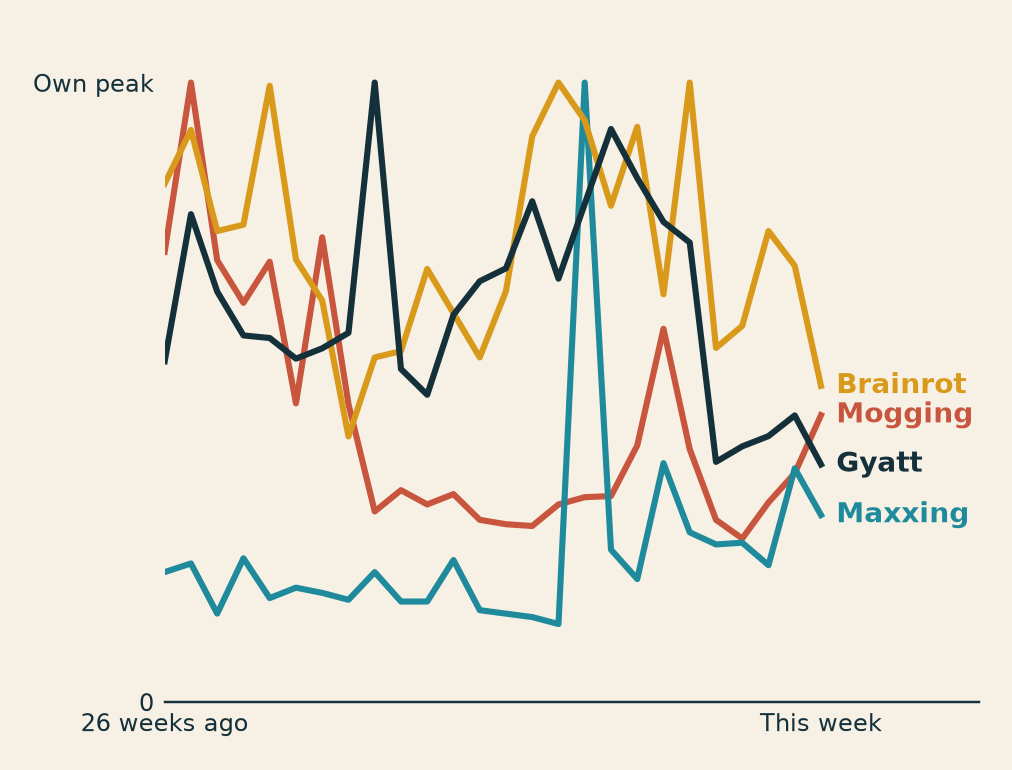
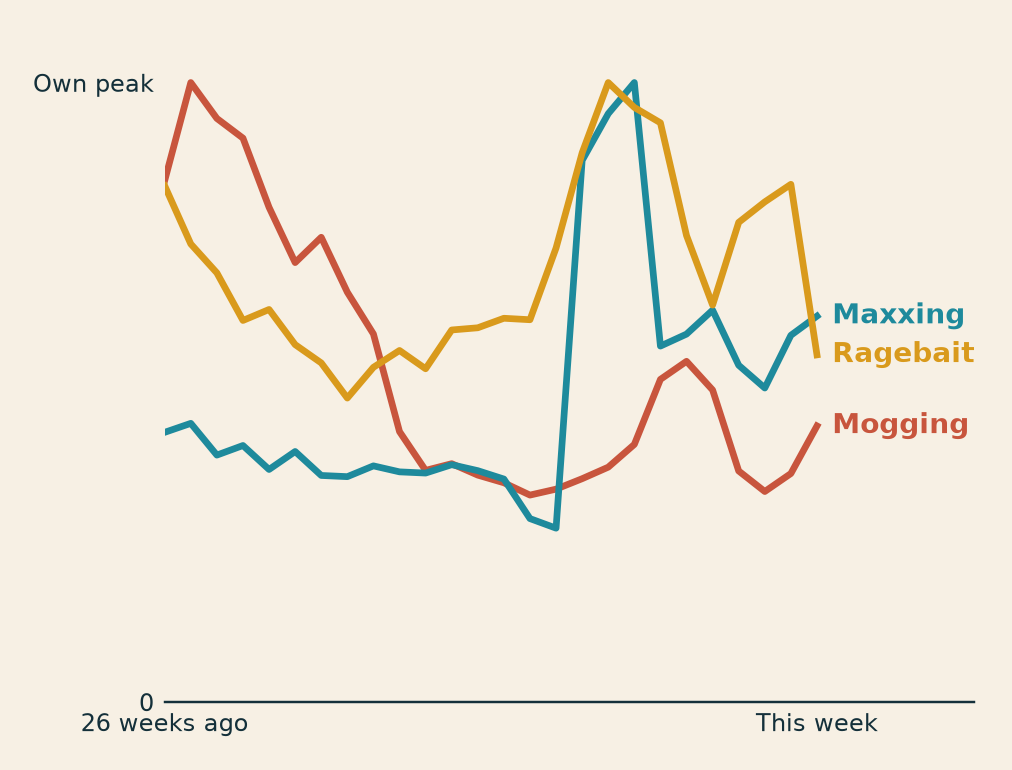
Clean up the words chart and tighten the deck

Changed region(s): [[0.1532, 0.0935, 0.9802, 0.8104], [0.7352, 0.9039, 0.8883, 0.9662], [0.1532, 0.5299, 0.2451, 0.5922]]

diff --git a/tools/words.py b/tools/words.py
@@ -3,9 +3,9 @@
 Measures how often each word is looked up on English Wiktionary (Wikimedia pageviews, free, no key).
 ponytail: lookups stand in for use. Nothing free counts words in TikTok comments, so read it as curiosity about a word.
 Entries with no "titles" are phrases with no page: their status is set by hand in words.json.
-Usage: python tools/words.py
+Usage: python tools/words.py [chart]   (chart: only redraw img/words.png)
 """
-import datetime, json, pathlib, time, urllib.error, urllib.parse, urllib.request
+import datetime, json, pathlib, sys, time, urllib.error, urllib.parse, urllib.request
 
 ROOT = pathlib.Path(__file__).resolve().parent.parent
 WEEKS = 26
@@ -45,11 +45,13 @@ def chart(rows, path):
     ink, plaster, colours = "#14303A", "#F7F0E4", ("#C8553D", "#1E8A9C", "#D99A1C", "#14303A")
     fig, ax = plt.subplots(figsize=(4.6, 3.5), dpi=220, facecolor=plaster)
     ax.set_facecolor(plaster)
-    top = [r for r in rows if r.get("weekly")][:4]
+    measured = [r for r in rows if r.get("weekly")]
+    top = [r for r in measured if r["status"] == "Rising"][:3] + [min(measured, key=lambda r: r["change"])]  # what's climbing, and the steepest fall
     for r, c in zip(top, colours):
-        base = max(r["weekly"])
-        y = [v / base * 100 for v in r["weekly"]]
-        ax.plot(y, color=c, linewidth=2)
+        v = r["weekly"]
+        v = [sum(v[max(0, i - 2):i + 1]) / len(v[max(0, i - 2):i + 1]) for i in range(len(v))]  # three-week average: single weeks are noisy
+        y = [x / max(v) * 100 for x in v]
+        ax.plot(y, color=c, linewidth=2.2)
         ax.annotate(r["word"], (len(y) - 1, y[-1]), xytext=(5, 0), textcoords="offset points", color=c, fontsize=9, fontweight="bold", va="center")
     ax.set_xlim(0, WEEKS + 5)
     ax.set_ylim(0, 108)
@@ -60,6 +62,13 @@ def chart(rows, path):
     ax.spines["bottom"].set_color(ink)
     fig.tight_layout()
     fig.savefig(path, facecolor=plaster)
+
+
+def redraw():
+    """Redraw the chart from saved data, without calling Wikimedia again."""
+    today = datetime.date.today()
+    monday = today - datetime.timedelta(days=today.weekday())
+    chart(json.loads((ROOT / f"data/words/{monday}.json").read_text("utf-8"))["words"], ROOT / "img/words.png")
 
 
 def main():
@@ -97,4 +106,4 @@ def demo():
 
 if __name__ == "__main__":
     demo()
-    main()
+    redraw() if sys.argv[1:] == ["chart"] else main()

diff --git a/tools/deck.py b/tools/deck.py
@@ -11,7 +11,7 @@ SITE = "https://joetherockhey.github.io/this-week-in-the-villa"
 TEMPLATE = "1rvdR3fjF2m_mhh2mmFXs_AuJB1XRXVV-R7u6RrdSg8I"  # 'This Week in the Villa (template)' in Joe's Drive; tools/deck_template.py drew it
 PILL = {"Rising": ("0E4A5A", "F7F0E4"), "Peaking": ("C8553D", "F7F0E4"), "Steady": ("E8DCC6", "14303A"), "Past peak": ("D3C6AE", "6B7A80")}
 TERRA, POOL, MUTE, INK = "C8553D", "0E4A5A", "6B7A80", "14303A"
-LIMITS = {"theme": 70, "glance_title": 75, "glance_note": 230, "story_title": 70, "story_bullets": 360, "lang_title": 62, "peak_title": 62,
+LIMITS = {"theme": 70, "glance_title": 75, "glance_note": 230, "story_title": 70, "story_bullets": 360, "lang_title": 50, "peak_title": 62,
           "case_title": 75, "brand_title": 75, "brand_num": 6, "brand_label": 90, "brand_use": 165, "brand_risk": 165,
           "src": 130, "tbl1": 62, "tbl2": 62, "tbl3": 62, "head": 48, "text": 150, "when": 12, "what": 85, "name": 36, "audio": 50, "ctx": 70, "label": 30}
 
@@ -94,7 +94,7 @@ def requests(monday):
         r += [sub(f"m{i}_head", fits("head", m["head"])), sub(f"m{i}_text", fits("text", m["text"])), pic(f"img_m{i}", m.get("img") or cover(m["trend"]))]
     for i, (when, what) in enumerate(tea["case_steps"], 1):
         r += [sub(f"c{i}_when", fits("when", when), "v_case"), sub(f"c{i}_what", fits("what", what), "v_case")]
-    r += [pic("img_story", cover(tea["story_trend"])), pic("img_case", cover(tea["case_trend"])), pic("img_words", f"{SITE}/archive/{monday}/img/words.png")]
+    r += [pic("img_story", cover(tea["story_trend"])), pic("img_case", cover(tea["case_trend"])), pic("img_words", f"{SITE}/archive/{monday}/img/words.png?v={wd['through']}")]
     r += cards("a", "v_tr1", ever[:6], tea, cover) + cards("b", "v_tr2", ever[6:12], tea, cover)
 
     for st in PILL:

diff --git a/tools/deck_template.py b/tools/deck_template.py
@@ -119,7 +119,7 @@ def b1():
     for i in range(1, 7):
         x = .5 + (i - 1) * 1.52
         r += img(page, f"a_im{i}", x, 1.05, 1.4, 1.95, f"img_c{i}")
-        r += box(page, f"a_pl{i}", x, 3.06, .78, .22, "{{c%d_status}}" % i, 8, MONO, fill=SAND, kind="ROUND_RECTANGLE", align="CENTER", anchor="MIDDLE")
+        r += box(page, f"a_pl{i}", x, 3.06, .92, .22, "{{c%d_status}}" % i, 8, MONO, fill=SAND, kind="ROUND_RECTANGLE", align="CENTER", anchor="MIDDLE")
         r += box(page, f"a_ct{i}", x + .55, 3.02, .95, .3, "{{c%d_n}}" % i, 9, MONO, align="END")
         r += box(page, f"a_nm{i}", x - .1, 3.27, 1.6, .6, "{{c%d_name}}" % i, 10.5, bold=True)
         r += box(page, f"a_cx{i}", x - .1, 3.83, 1.6, .85, "{{c%d_ctx}}" % i, 9)
